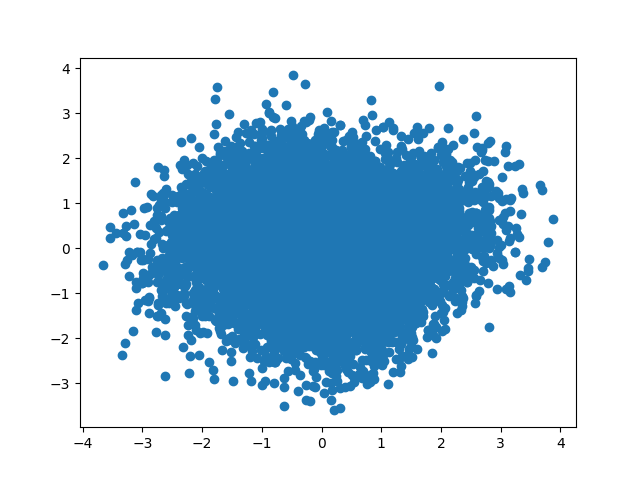
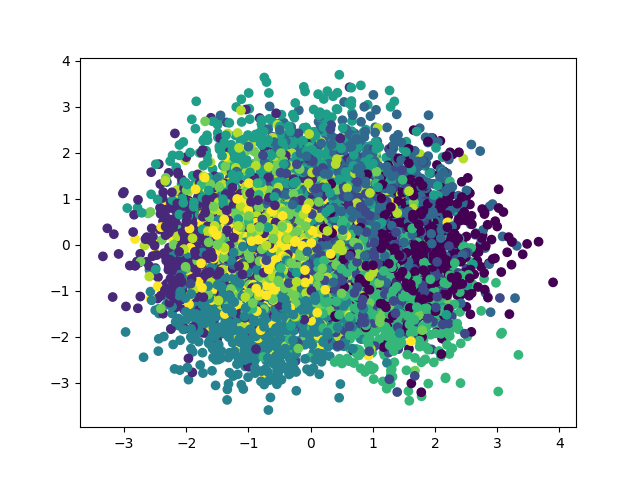
adding label to scatter plot and increasing latent dim to 50

diff --git a/VAE/train.py b/VAE/train.py
@@ -21,7 +21,7 @@ device = torch.device("cuda:0" if torch.cuda.is_available() else "cpu")
 train_loader = torch.utils.data.DataLoader(MNISTDataset('../Data Processing/processed_train_mnist.npz',transform=torchvision.transforms.Compose([torchvision.transforms.ToTensor()])), batch_size=128, shuffle=True)
 test_loader = torch.utils.data.DataLoader(MNISTDataset('../Data Processing/processed_test_mnist.npz',transform=torchvision.transforms.Compose([torchvision.transforms.ToTensor()])), batch_size=500, shuffle=True)
 
-network = VAE_MLP(28*28,[250,100],20).to(device)
+network = VAE_MLP(28*28,[250,100],50).to(device)
 learning_rate = 0.002
 learning_rate_decay = 0.001
 optimizer = optim.Adam(network.parameters(), lr=learning_rate)
@@ -102,16 +102,18 @@ def plot_results():
 	plt.savefig(os.path.join(os.environ['SLURM_TMPDIR'],'test_VAE_recon.png'))
 
 	z_vec = torch.Tensor(0)
+	label_vec = torch.Tensor(0).type(torch.LongTensor)
 	with torch.no_grad():
 		for batch_idx, (data, target) in enumerate(test_loader):
 			data = data.to(device)
 			recon, mu, sigma, latent_z = network(data.view(-1,28*28))
 			z_vec = torch.cat((z_vec,latent_z.cpu()),dim=0)
+			label_vec = torch.cat((label_vec,target.type(torch.LongTensor)),dim=0)
 	from sklearn.decomposition import PCA
 	pca = PCA(n_components=2)
 	z_pca = pca.fit_transform(z_vec)
 	plt.figure()
-	plt.scatter(z_pca[:,0],z_pca[:,1])
+	plt.scatter(z_pca[:,0],z_pca[:,1],c=label_vec)
 	plt.savefig(os.path.join(os.environ['SLURM_TMPDIR'],'test_VAE_latent.png'))
 
 
